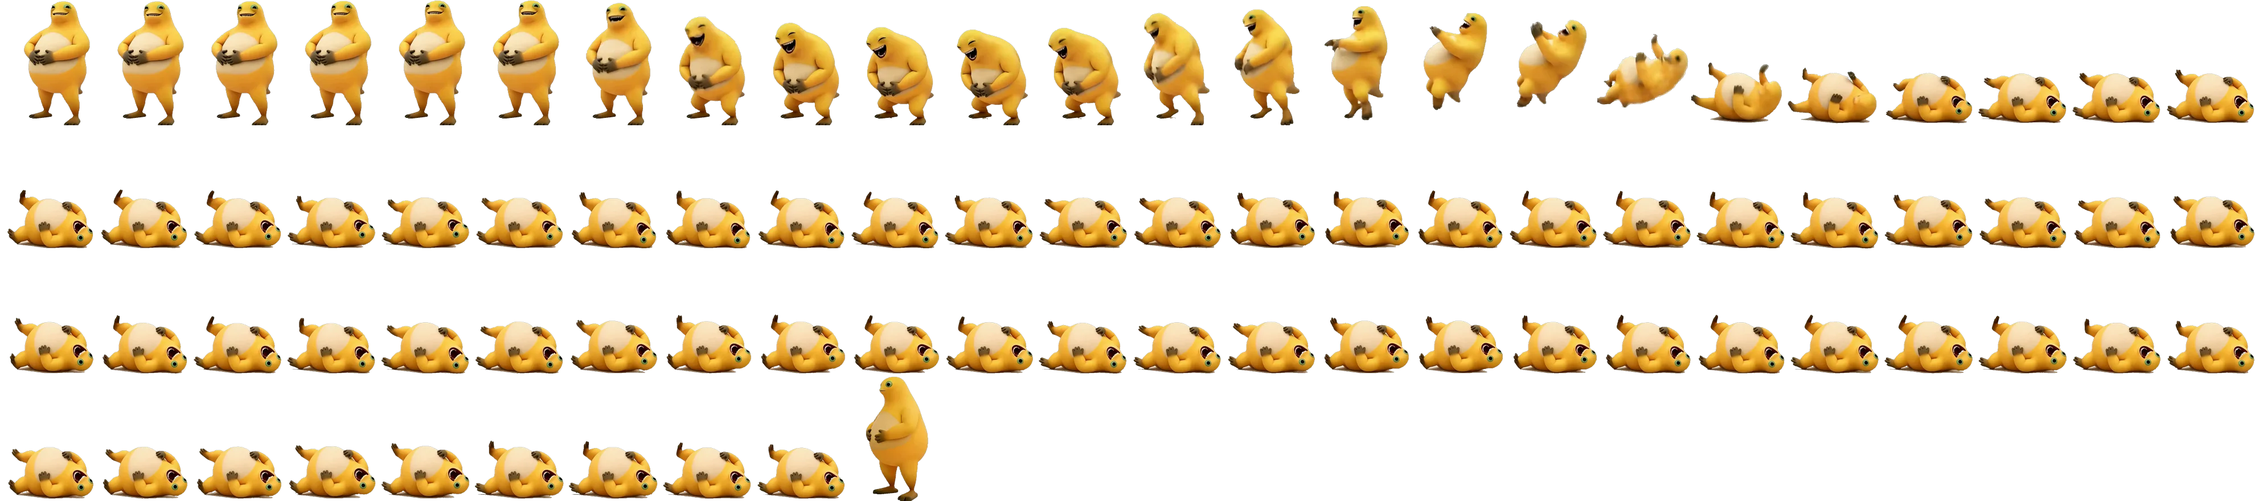
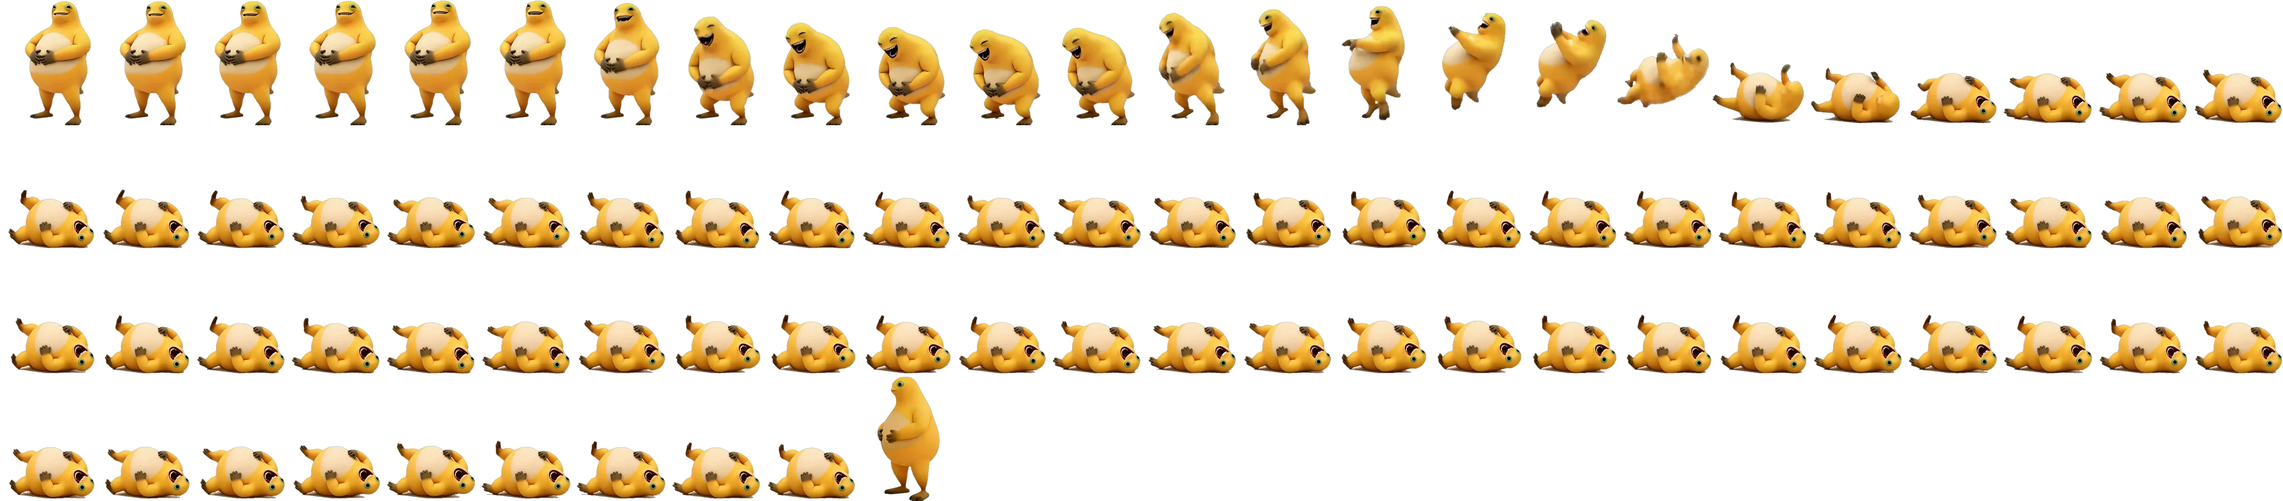
fix(deskpet): 图标改走 ldapp:// 自定义协议（开发版 http 源加载不了 file://）+ 打滚倒下帧重抠

diff --git a/src/main/localFileProtocol.ts b/src/main/localFileProtocol.ts
@@ -1,0 +1,95 @@
+import { app, net, protocol } from 'electron'
+import { existsSync, statSync } from 'node:fs'
+import { extname } from 'node:path'
+import { pathToFileURL } from 'node:url'
+
+/**
+ * 本地图片的自定义协议（`ldapp://`）。
+ *
+ * 为什么需要它（2026-11-12 用户反馈「这个图标怎么显示不出来」）：
+ * 渲染层原来把绝对路径拼成 `file:///C:/...` 直接塞进 <img src>。打包版里页面本身
+ * 就是 file:// 源，同源，能加载；但**开发预览版的页面源是 http://localhost:5173**，
+ * 从 http 源引用 file:// 子资源会被 Chromium 底层拦掉（跨源本地文件访问），
+ * 连 CSP 违规事件都不报，表现就是 <img> 静默失败 —— 横幅上的应用图标变成一块空灰底。
+ *
+ * 实测证据（.tmp/probe-icon-origin.mjs，本地 http 服务器挂 out/renderer）：
+ *   同一张 icon-cache/notify-ScreenSketch_*.png
+ *     原 CSP          → file: error / data: load:48
+ *     放行 file: 的 CSP → file: error / data: load:48
+ *   两轮 file: 都 error 且 csp 违规数组为空 ⇒ 不是 CSP 规则拦的，是源不同。
+ *
+ * 为什么不用 data: URL 一把梭：图标要经 IPC 传 base64，通知列表几十条就白占内存；
+ * 置物架图标（App.tsx:703）也走 file://，同样在开发版坏掉，自定义协议一处修两边都通。
+ *
+ * 为什么把协议注册放在模块顶层：registerSchemesAsPrivileged 必须在 app ready 之前调用，
+ * 放到 whenReady 里会失效。index.ts 在启动时 import 本模块，时机正好。
+ */
+
+/** 协议名（渲染层用 localUrl() 拼，别处不要写死字符串） */
+const SCHEME = 'ldapp'
+
+protocol.registerSchemesAsPrivileged([
+  {
+    scheme: SCHEME,
+    privileges: {
+      standard: true,
+      secure: true,
+      supportFetchAPI: true,
+      // 不开 bypassCSP：CSP 里显式允许 ldapp: 就够了，别把安全边界放宽得更离谱
+      bypassCSP: false
+    }
+  }
+])
+
+/** 只放行这些图片扩展名，别让协议变成任意文件读取通道 */
+const ALLOWED_EXT = new Set(['.png', '.jpg', '.jpeg', '.webp', '.gif', '.bmp', '.ico', '.svg'])
+
+/**
+ * 把 `ldapp://local/<encodeURIComponent 的绝对路径>` 还原成真实路径。
+ * 用单段 encodeURIComponent 而不是逐段编码：Windows 路径里的冒号、空格、
+ * 中文和 `#` 全得转义，逐段拼太容易漏。
+ */
+function decodeTarget(url: URL): string | null {
+  // standard 协议下 host 恒为 'local'，真正的路径在 pathname 里（以 / 开头）
+  const raw = url.pathname.replace(/^\//, '')
+  if (!raw) return null
+  try {
+    return decodeURIComponent(raw)
+  } catch {
+    return null
+  }
+}
+
+/** app ready 之后调用一次：把协议接到真实的文件读取 */
+export function setupLocalFileProtocol(): void {
+  protocol.handle(SCHEME, async (req) => {
+    const url = new URL(req.url)
+    const target = decodeTarget(url)
+    if (!target) return new Response('bad request', { status: 400 })
+
+    const ext = extname(target).toLowerCase()
+    if (!ALLOWED_EXT.has(ext)) return new Response('forbidden type', { status: 403 })
+    if (!existsSync(target)) return new Response('not found', { status: 404 })
+    try {
+      if (!statSync(target).isFile()) return new Response('not a file', { status: 404 })
+    } catch {
+      return new Response('not found', { status: 404 })
+    }
+
+    // net.fetch 读 file: URL 是 Electron 官方推荐做法（自动带正确的 content-type）
+    return net.fetch(pathToFileURL(target).toString())
+  })
+}
+
+/** 把绝对路径转成渲染层能用的 URL（与渲染层 localUrl() 必须保持一致） */
+export function localFileUrl(p: string): string {
+  return `${SCHEME}://local/${encodeURIComponent(p)}`
+}
+
+/** 供主进程自检/日志用：当前协议名 */
+export function localFileScheme(): string {
+  return SCHEME
+}
+
+// app 未 ready 时协议还注册不了，这里只提醒使用者别提前调用（不是错误路径）
+void app

diff --git a/src/renderer/src/App.tsx b/src/renderer/src/App.tsx
@@ -699,8 +699,8 @@ function FileIcon({ name, path }: { name: string; path: string }): React.JSX.Ele
     }
   }, [name, path])
   if (src) {
-    // Windows 路径转 file:// URL（空格等字符浏览器自动处理）
-    const url = `file:///${src.replace(/\\/g, '/')}`
+    // 走 ldapp:// 自定义协议，理由见 iconUrl() 的注释（开发版 http 源引用 file:// 会被拦）
+    const url = `ldapp://local/${encodeURIComponent(src)}`
     return <img className="shelf-icon" src={url} alt="" draggable={false} />
   }
   const color = extColor(name)
@@ -1121,9 +1121,18 @@ function ShelfPanel(): React.JSX.Element {
   )
 }
 
-/** Windows 绝对路径 → file:// URL（与置物架图标同款转换） */
+/**
+ * Windows 绝对路径 → 可加载的图片 URL。
+ *
+ * 为什么不用 file://（2026-11-12 用户反馈「这个图标怎么显示不出来」）：
+ * 打包版页面源是 file://，引用 file:// 同源、能加载；但开发预览版页面源是
+ * http://localhost:5173，从 http 源引用 file:// 会被 Chromium 底层拦掉，
+ * <img> 静默失败、连 CSP 违规都不报，横幅图标就剩一块空灰底。
+ * 改用主进程注册的 ldapp:// 自定义协议，两种源下都能加载。
+ * 拼接规则必须与 src/main/localFileProtocol.ts 的 localFileUrl() 一致。
+ */
 function iconUrl(p: string): string {
-  return `file:///${p.replace(/\\/g, '/')}`
+  return `ldapp://local/${encodeURIComponent(p)}`
 }
 
 /** 相对时间：刚刚 / n 分钟前 / n 小时前 / 昨天 / 具体日期 */

diff --git a/src/renderer/src/pet/skinPhoto.tsx b/src/renderer/src/pet/skinPhoto.tsx
@@ -121,14 +121,18 @@ export const ACTION_DURATION_MS = Math.round((ACTION_FRAMES / ACTION_FPS) * 1000
  * 15fps 抽 96 帧，去掉结尾 14 帧重复的站姿，留 82 帧。
  *
  * 为什么参数跟大笑不一样、不能共用一套常量：
- * ① 格宽不同——打滚是躺着的，画面变宽变矮，按并集包围盒算出来是 165×220 而不是 158×220；
- * ② 列数不同——82 帧排 24 列 × 4 行（3960×880），一行放不下（82×165=13530 虽没超上限，
+ * ① 格宽不同——打滚是躺着的，画面变宽变矮，按并集包围盒算出来是 167×220 而不是 158×220；
+ * ② 列数不同——82 帧排 24 列 × 4 行（4008×880），一行放不下（82×167=13694 虽没超上限，
  *    但 4000 宽以内的图解码更快，这里选了更方正的排法）；
  * ③ 播放时同时改 x 和 y，跟大笑那套两行平移是同一套逻辑，只是格子尺寸不同。
+ *
+ * 格宽 165 → 167（2026-11-12 用户反馈「倒的过程中身体有残缺」后改）：
+ * 抠图裁框左界从 30 收到 24，把倒下时左手撑地被切掉的 4px 补了回来，
+ * 合成后的并集包围盒从 464 宽变成 472 宽，按 220 高缩放算出 167。
  */
 const ROLL_COLS = 24
 const ROLL_FRAMES = 82
-const ROLL_CELL_RATIO = 165 / 220
+const ROLL_CELL_RATIO = 167 / 220
 
 /** 一支动作的素材参数：格子数、帧数、格宽比、图源 */
 interface ActionSpec {

diff --git a/src/main/index.ts b/src/main/index.ts
@@ -14,6 +14,7 @@ import { openSettings, setupSettingsWindow } from './settingsWindow'
 import { closePetWindow, setupPetWindow, syncPetWindow } from './petWindow'
 import { initClipboardWatch } from './clipboardStore'
 import { setIslandWindow } from './islandWindowRef'
+import { setupLocalFileProtocol } from './localFileProtocol'
 import type { ShelfOpenResult, ShelfRevealResult } from '../shared/types'
 
 /**
@@ -273,6 +274,10 @@ app.whenReady().then(() => {
   if (process.platform === 'win32') {
     app.setAppUserModelId('com.xcjack.lingdong-island')
   }
+  // 本地图片自定义协议（2026-11-12）：开发预览版的页面源是 http://localhost:5173，
+  // 从 http 源引用 file:// 本地图片会被 Chromium 拦掉，通知横幅/置物架图标全变空白。
+  // 注册成 ldapp:// 就能跨源加载（协议特权已在模块顶层登记）。
+  setupLocalFileProtocol()
   setupTodoStore()
   setupStatus()
   setupShelfStore()

diff --git a/src/renderer/pet.html b/src/renderer/pet.html
@@ -5,7 +5,7 @@
     <title>灵动岛桌宠</title>
     <meta
       http-equiv="Content-Security-Policy"
-      content="default-src 'self'; script-src 'self'; style-src 'self' 'unsafe-inline'; img-src 'self' data:"
+      content="default-src 'self'; script-src 'self'; style-src 'self' 'unsafe-inline'; img-src 'self' data: ldapp:"
     />
   </head>
   <body>

diff --git a/src/renderer/settings.html b/src/renderer/settings.html
@@ -5,7 +5,7 @@
     <title>灵动岛设置</title>
     <meta
       http-equiv="Content-Security-Policy"
-      content="default-src 'self'; script-src 'self'; style-src 'self' 'unsafe-inline'; img-src 'self' data:"
+      content="default-src 'self'; script-src 'self'; style-src 'self' 'unsafe-inline'; img-src 'self' data: ldapp:"
     />
   </head>
   <body>

diff --git a/src/renderer/index.html b/src/renderer/index.html
@@ -5,7 +5,7 @@
     <title>灵动岛</title>
     <meta
       http-equiv="Content-Security-Policy"
-      content="default-src 'self'; script-src 'self'; style-src 'self' 'unsafe-inline'; img-src 'self' data:"
+      content="default-src 'self'; script-src 'self'; style-src 'self' 'unsafe-inline'; img-src 'self' data: ldapp:"
     />
   </head>
   <body>

diff --git a/docs/状态.md b/docs/状态.md
@@ -6,6 +6,8 @@
 
 ## 一句话状态
 
+**2026-11-12 23:55（用户 m04725 两条反馈全部处理完：横幅图标显示不出来 + 打滚倒下过程没扣干净，分支 `deskpet-action2`，未合并、未打包）**——**①图标为什么显示不出来：不是 CSP、不是图标解析失败、也不是图标本身是灰的**（三条都实测排除了）。真因是**源不同**：开发预览版页面源是 `http://localhost:5173`，从 http 源引用 `file://` 子资源会被 Chromium 底层拦掉，`<img>` 静默失败只剩一层 `rgba(255,255,255,0.08)` 白底，在深色横幅上就是一块空灰方块；打包版页面源也是 `file://`、同源能加载，所以这个问题只在开发版出现。**证据（`.tmp/probe-icon-origin.mjs`）**：同一张 `icon-cache/notify-ScreenSketch_*.png`，在 http 源下 `{"file":"error","data":"load:48","csp":[]}`，**原 CSP / 显式放行 `file:` 的 CSP / 直接 navigate 三组结果完全一样、CSP 违规数组全空** ⇒ 不是 CSP 规则拦的。**修法**：新增 `src/main/localFileProtocol.ts` 注册 `ldapp://` 自定义协议（`registerSchemesAsPrivileged` 放模块顶层，必须早于 app ready；`ALLOWED_EXT` 白名单 + `existsSync` 校验后 `net.fetch(pathToFileURL(...))`；`bypassCSP: false`，三个 HTML 的 CSP 显式加 `img-src ... ldapp:`），`App.tsx` 的 `iconUrl()` 与置物架图标都改走它。**探针实测 `{"file":"error","ldapp":"load:48"}`**；`e2e-notify-icon` **PASS 10/0**（新增 I3b 图标真解码 `naturalWidth>0`、I3c 协议必须是 `ldapp`），**负对照把 `iconUrl` 改回 `file://` → FAIL 9/1（`✗ I3c … 协议 file`）**。**②打滚倒下过程**：`BOX` 左界 30→**24**（补回帧 18/19 左手撑地被切的 4px）、羽化 `GaussianBlur(0.8)`→**1.6**（0.8 在 0.33 倍缩放下几乎没有过渡带，边缘是一圈硬切换，正是「没扣干净」的观感来源）、`fill_transparent` 取色源从 `al>0.6` 收紧到 `al>0.99`（过渡带本身偏亮，拿它当颜色源等于把亮边抹回边缘）。重建后 sheet **4008×880、每格 167×220、348008 B**，严格白残留 **2 px**、边缘亮带 **0 px**；`ROLL_CELL_RATIO` 同步改 `167/220`。**顺带修掉一条假红**：P9i-5 里写死 `165` 格宽比，改成从源码正则读 `ROLL_CELL_RATIO` —— 测试与实现各记一个数，迟早假绿或假红。**[实测]** `npm run typecheck` EXIT=0、`npm run build` EXIT=0；`e2e-deskpet-out` **PASS（75 过 / 0 败）**；回归 `e2e-deskpet` 33/0、`e2e-m2` PASS、`e2e-head-order` 14/0、`e2e-collapse-order` 22/0、`e2e-settings-shell` 51/0、`e2e-m4` PASS、`e2e-notify` PASS（`.tmp/regress-ldapp.log`）。**未验证**：图标在开发预览版里的真实观感（断言的是 `naturalWidth` 与协议名，不是「好不好看」）；`ShellExperienceHost` 那张缓存图标只有 16×16/125 B，22px 下会不会糊。
+
 **2026-11-12 23:15（用户反馈四条全部处理完：打滚残缺、皮肤白缝、右键边框、岛不弹提示，分支 `deskpet-action2`，提交 `629067d` + 本条，未合并、未打包）**——第四条「灵动岛没有信息提示弹出」**真因找到了**：不是通知库读不到，是**推给谁错了**。`src/main/notifyStore.ts:185` 与 `src/main/clipboardStore.ts:75` 都用 `BrowserWindow.getAllWindows()[0]?.webContents.send(...)` 往渲染层推横幅，**假设 `[0]` 是岛窗口**。桌宠出岛后实测顺序是 `[{序号:0, url:".../pet.html", 标题:"灵动岛桌宠"}, {序号:1, url:".../index.html", 标题:"灵动岛"}]`——`[0]` 变成宠物窗口，横幅事件全发给一个根本不监听 `island:notify-arrived` / `island:code-arrived` 的窗口，岛上一个提示都不弹。这也解释了为什么用户是「出岛之后」才发现的。**修法**：新增 `src/main/islandWindowRef.ts`（`setIslandWindow` / `getIslandWindow` 每次判 `isDestroyed` / `sendToIsland`），`index.ts` 的 `createWindow()` 里登记、`closed` 里清空，`notifyStore` 两处（横幅推送 + 自家通知聚焦）与 `clipboardStore` 的验证码横幅都改走它。**不用 URL 猜窗口**的理由：开发版走 `loadURL(ELECTRON_RUNTIME_URL)`、打包版走 `loadFile`，URL 形态不同，字符串匹配容易在某一侧漏掉。**探针实证（`.tmp/probe-island-banner.mjs`，走剪贴板验证码这条路）**：往剪贴板写「验证码 735184」→ 等岛渲染层 `.collapsed-banner`；**修后 PASS 4/0（横幅文字 `"验证码 735184"`）、负对照改回 `getAllWindows()[0]` 后 FAIL 2/1（`等超时：岛横幅出现`）**。**探针踩坑**：同一个验证码第二次跑会被 `REPEAT_SUPPRESS_MS = 30_000` 去重，第二次跑必须换新码，否则误判成「还没修好」。**e2e 新增 P9k 三条**（出岛时确实有宠物窗口 / 引用是显式登记 / 两条横幅都走 `sendToIsland` 且源码不再有旧写法），`e2e-deskpet-out` **PASS（75 过 / 0 败）**。**未验证**：真实系统通知（非剪贴板验证码）到岛时横幅会不会弹——两条路走同一个 `sendToIsland`，机制相同，但没有单独验。
 
 **2026-11-12 23:05（用户实测反馈的四条里前三条已修：打滚「身体残缺」、三张皮肤白缝、右键多出的边框，分支 `deskpet-action2`，未合并、未打包）**——用户（m03693）原话：「我一右键就会多出来一个边框；还有就是打滚扣的不好，身体有残缺；我现在又发现了一个之前没发现的，截图二，就是原版的图片上手部和手和肚皮的夹缝都有一点白色背景没扣好；还有就是我刚刚截图，灵动岛没有信息提示弹出」。**①打滚「身体残缺」不是帧被裁、也不是连通块被切成两块**（逐项排除过：82 帧贴边只有 3~27px 边缘细条、`alpha>0.5` 连通块无一帧有第二个 >50px 块、内部透明洞 0 像素、严判前景只被抠掉 0.05%、封闭背景块 ≥40px 的 0 个）。**真因**：阴影判据 `passable = bg | (ch<45 & mn>160 & mn<232)` 从四边泛洪，会**顺着肚皮上缘「亮且低彩度」的高光一路咬进身体**——帧 046 被吃掉 4663 个非背景像素，第二大的块 **600px 就在 `x220–342 y374–403`**，成品上正是「被啃掉一口」。**修法**：加 `SHADOW_BAND = 70`，只允许「贴着角色最低点往上 70 行」以内当阴影吃；帧 046「非背景却透明」**5748 → 4522**、帧 030 **6121 → 4827**。**②白 halo**：`cut()` 只对 `0.02<alpha<0.995` 窄带去污染、**alpha 更小的像素 RGB 仍是原图纯白**，而 `resize(LANCZOS)` 是逐通道插值（非预乘），白就被混进边缘。修法：新增 `fill_transparent(rgb, alpha, r=7, iters=3)` 把透明区 RGB 迭代填成邻域身体色。**预乘 alpha 缩放这条路试过、不能用**（白边像素 0→161）。**③三张皮肤的白缝**：`bean-photo.png` 里「不透明且 min>235 & chroma<20」只有 **7px**（`x36–272 y338–343`，正是左右手与肚皮之间那两条缝），侧图背图都是 0；把点放大到 12× 对照原图，确认**原图腋下本身就是一条白缝**（手臂与肚子之间背景透出），不是抠坏的。修法 `carve_photo_holes.py` 判据**只看绝对颜色不跟背景比**（`min>230 & chroma<25 & 面积<300`，奶白肚皮 7000+ 靠面积兜底），第一版拿「与透明区背景中位色差<6」只挖到 2 像素就收工——因为成品 PNG 的透明区虽然 alpha=0、**RGB 还留着身体黄**。改后：正面挖 10px、背面 3px、侧面 0。**④右键那圈边框 = Chromium 焦点环**：用户截图里那条线量出来 `x30..267 / y36..348`，正好 **238×313 物理像素** = 窗口 190×250 DIP × DPR 1.25；线色 **(229,151,0)**，本机 `DWM\AccentColor = 0xFFD47800` → RGB(212,120,0)。修法是 `petwin.css` 加 `.petwin:focus, .petwin:focus-visible { outline: none }`。**[实测] 三轮探针**：原始状态无边框、真鼠标点一下仍无边框、`deleteRule` 删掉那条 CSS 再按 Tab → `focusVisible=true outlineStyle=auto outlineColor=rgb(229,151,0)`、边框真的出现（`top54 bot113 left76`），**颜色与用户截图逐位相同**。**e2e 新增 P9j 三条**：源码断言规则存在 / Tab 后 computed `outlineStyle==='none'` / **负对照**（删规则后焦点环必须回来且颜色匹配 `229|212`）——只断言「现在没有边框」是假绿，删掉整段 CSS 也能过。**[实测]** `npm run typecheck` EXIT=0、`npm run build` EXIT=0；`e2e-deskpet-out` **PASS（72 过 / 0 败）**；回归 `e2e-deskpet` 33/0、`e2e-head-order` 14/0、`e2e-collapse-order` 22/0、`e2e-settings-shell` 51/0。**回归踩的坑**：`e2e-m2` 首次 FAIL，根因不是代码——`.tmp/e2e-userdata/.../prefs.json` 里 `petMode` 停在 `window`（上一批 e2e 留下的），岛仔按设计不渲染；改回 `island` 后立刻 PASS。**共享隔离目录的 e2e 之间会互相污染 `petMode`**。**未做**：用户第四条「灵动岛没有信息提示弹出」本轮只读了代码（`notifyStore.ts:185`、`clipboardStore.ts:75`、`notifyStore.ts:303` 有 `ScreenSketch: 'ms-screenclip:'`），**没有复现也没有修复**。SPEC 见 `docs/Spec/SPEC-deskpet-action.md` 第 7.10 节。
@@ -88,14 +90,12 @@
 
 ## 下次开工先做什么
 
-> **2026-11-12 21:30 现状**：桌宠阶段 0、阶段 1 第一步（出岛 + 四视图转身 + 底部旋转把手 + 右键出岛）、阶段 2 的前两支动作（大笑）**已在 `main`（`9f479fb`）并装进 `D:\软件\灵动岛\`（2026-11-12 20:51）**；**第二支动作「打滚」在分支 `deskpet-action2` 上，待用户看过再合并**。
-> **开发预览版需要重启**（跑 e2e 时被关掉了），命令见下面「关键环境」；跑 e2e 前先 `Get-Process electron | Stop-Process -Force`。
+> **2026-11-12 23:55 现状**：桌宠阶段 0、阶段 1 第一步（出岛 + 四视图转身 + 底部旋转把手 + 右键出岛）、阶段 2 的**两支动作（大笑 + 打滚）在分支 `deskpet-action2` 上，待用户看过再合并**；`main`（`9f479fb`）上只有大笑，装进 `D:\软件\灵动岛\` 的是 2026-11-12 20:51 的包（**没有打滚**）。
+> **开发预览版需要重启**，命令见下面「关键环境」；跑 e2e 前先 `Get-Process electron | Stop-Process -Force`。
 >
-> - 合并链：`cebb8e6` → `50314a7`（`fix-flaky-e2e`）→ `37fb03c`（`deskpet-skin`）→ `a443108`（`deskpet-photo`）→ `c5809e2`（`fix-e2e-close-race`）→ `c5e88b5`（`deskpet-out`）→ `9f479fb`（`deskpet-action`，当前 `main`）→ 待合并 `deskpet-action2`（打滚）。
-> - `main` 上现在有什么：岛仔可换皮肤层（`src/renderer/src/pet/`）+ 三套形象（紫胶囊 / 黄豆小怪兽 / 我的原图）+ 设置窗口「桌宠」分区 + `prefs.json` 的 `petSkin` / `petMode` / `petWindowPos` 白名单校验 + **第三个渲染入口 `pet.html` 与 `src/main/petWindow.ts`**（透明无边框独立窗口、拖动记位置、右键菜单）+ 原图皮肤四视图转身（**按住正下方的旋转图标拖动驱动**，按住身体仍是挪位置）+ 岛右键菜单一步出岛/收回 + **动作层**（`PetAction` 类型、`skinPhoto` 的 sprite sheet 播放、`PetWindowApp` 的点击触发与 7.2 秒定时复位）+ 素材 `bean-laugh.webp`（600442 B、8532×440、每格 158×220）。
-> - **`deskpet-action2` 分支上多什么**（尚未合并）：`bean-roll.webp`（打滚素材，351330 B、3960×880、24 列 × 4 行、每格 165×220、82 帧）、`PetAction` 加 `'roll'`、`skinPhoto.tsx` 的 `ACTION_SPECS` 表与 `actionDurationMs()`（按各自帧数定时）、`preload` 的 `onPetAction()`、`petWindow.ts` 右键菜单两项（「再来一次大笑」/「打个滚」）、e2e P9i-0~P9i-7。
-> - **[实测]** `main` 上的数字：typecheck EXIT=0、build EXIT=0、`e2e-deskpet-out` **61/0**、`e2e-deskpet` 33/0、`e2e-m2` PASS、`e2e-head-order` 14/0、`e2e-collapse-order` 22/0、`e2e-settings-shell` 51/0。**注意** `e2e-deskpet` 与 `e2e-collapse-order` 各有一次「首次 1 败、重跑全过」的偶发，属已知不稳定。
-> - **[实测]** `deskpet-action2` 分支上的数字：typecheck EXIT=0、build EXIT=0、`e2e-deskpet-out` **69/0**、其余五套全绿（`.tmp/regress-roll.log`）。
+> - `deskpet-action2` 上的最新提交：`dd42709`（打滚）→ `629067d`（打滚残缺 + 皮肤白缝 + 右键焦点环）→ `fb65c81`（岛横幅改走显式登记的岛窗口引用）→ **本条**（横幅图标 `ldapp://` 协议 + 打滚倒下帧重抠）。
+> - **`deskpet-action2` 分支上比 `main` 多什么**：`bean-roll.webp`（打滚素材，**348008 B、4008×880、24 列 × 4 行、每格 167×220、82 帧**）、`PetAction` 加 `'roll'`、`skinPhoto.tsx` 的 `ACTION_SPECS` 表与 `actionDurationMs()`（按各自帧数定时）、`preload` 的 `onPetAction()`、`petWindow.ts` 右键菜单两项（「再来一次大笑」/「打个滚」）、`islandWindowRef.ts`（横幅推送不再假设 `getAllWindows()[0]` 是岛窗口）、**`localFileProtocol.ts`（`ldapp://` 自定义协议，修开发版图标加载）**、三个 HTML 的 CSP 加 `img-src ... ldapp:`、`App.tsx` 两处图标 URL 改造、e2e P9i-0~P9i-7 + P9j-1~P9j-3 + P9k-1~P9k-3 + `e2e-notify-icon` 的 I3b/I3c。
+> - **[实测]** `deskpet-action2` 分支上的数字：typecheck EXIT=0、build EXIT=0、`e2e-deskpet-out` **75/0**、`e2e-notify-icon` **10/0**、`e2e-deskpet` 33/0、`e2e-m2` PASS、`e2e-head-order` 14/0、`e2e-collapse-order` 22/0、`e2e-settings-shell` 51/0、`e2e-m4` PASS、`e2e-notify` PASS（`.tmp/regress-ldapp.log`）。
 >
 > **用户实测反馈的问题已修完**：
 > 1. 「按住它就一直变大、还往下移动」（`c6750b4`）——根因是拖动定时器每 16ms 调 `w.setPosition(x, y)`，在 125% 缩放下每次 DIP↔物理像素换算的余数被并进窗口尺寸，200 次从 191×191 长到 391×391。改用 `setBounds` 并显式带宽高。e2e 新增 P9c 回归，负对照证明退回旧写法会红。
@@ -106,6 +106,11 @@
 > 6. 「每次出岛都要点设置」（`2828ead`）——右键菜单加「让桌宠出岛…」/「让桌宠回到岛里」，按当前模式二选一显示。
 > 7. 「图标在往下移，有点遮住脚了」→「我希望在奶娃的下面」（`e448608` → `e6f9f72`）——第一版 `left:50%/bottom:4px` 居中贴底，22px 的圆夹在两只脚中间压住脚趾；第二版挪到右下角避开但方向不对；最终版把窗口加高到 **190×250**（多出来的是透明留白，宠物尺寸不变），把手回到正下方居中。顺带修掉 P9f-2 的假绿（原只测底部位置，旧版照样全绿），改成测「压入量 ≤ 0 + 水平中心偏差 ≤ 4」，负对照证明会红。
 > 8. 「捂头的动作白色背景没扣干净」「色差统一取中间值」（`fe0a3b4`）——白边根因是「封闭背景块只挖质心在画面下半部的」，捂头时两臂间那块白三角在上半部被位置条件保住；改成按「块内严格白占比 < 0.5」判（255 个封闭块里白空洞 0.78~0.87、牙齿/肚皮全 ≤0.45，中间是空的）。剩 1289 像素其实是手臂高光条，改成换色不换 alpha。配色用全局位移 `(+6,+4,−10)` 取中点。
+> 9. 「一右键就会多出来一个边框」（`629067d`）——不是自绘边框，是 Chromium 的 `:focus-visible` 焦点环：量出来 `x30..267 / y36..348` 正好 238×313 物理像素 = 窗口 190×250 DIP × DPR 1.25，颜色 `(229,151,0)` 与本机 `DWM\AccentColor` 一致。`petwin.css` 加 `outline: none`；e2e P9j 带负对照（删掉规则后焦点环必须回来），只断言「现在没边框」是假绿。
+> 10. 「灵动岛没有信息提示弹出」（`fb65c81`）——不是通知库读不到，是**推给谁错了**：横幅推送写死 `BrowserWindow.getAllWindows()[0]`，桌宠出岛后 `[0]` 是宠物窗口，横幅全发给一个不监听该事件的窗口。新增 `islandWindowRef.ts` 显式登记 + `sendToIsland()`；探针负对照改回旧写法立刻 FAIL。
+> 11. 「打滚扣的不好，身体有残缺」（`629067d` + 本条）——真因是阴影判据从四边泛洪时**顺着肚皮上缘高光一路咬进身体**（帧 046 吃掉 4663 个非背景像素）；加 `SHADOW_BAND = 70` 只允许贴着最低点 70 行内当阴影吃。倒下那两帧另有左手撑地被裁：`BOX` 左界 30→24，羽化 0.8→1.6，`fill_transparent` 色源收紧到 `al>0.99`。
+> 12. 「原版的图片上手部和手和肚皮的夹缝有白色背景」（`629067d`）——放大 12× 对照原图确认**原图腋下本身就是一条白缝**（手臂与肚子之间背景透出），不是抠坏的；`carve_photo_holes.py` 按绝对颜色挖（`min>230 & chroma<25 & 面积<300`），正面挖 10px、背面 3px、侧面 0。
+> 13. 「这个图标怎么显示不出来」（本条）——不是 CSP、不是解析失败、也不是图标灰。真因是开发版页面源是 http，从 http 源引用 `file://` 子资源被 Chromium 底层拦掉（CSP 违规数组全空）。新增 `ldapp://` 自定义协议，`e2e-notify-icon` 新增 I3b（`naturalWidth>0`）/I3c（协议必须是 ldapp），负对照改回 `file://` 立刻红。
 >
 > **3D 问题已落地为第二条路**：用户先选第一条（真 3D），看过排期后改选第二条（四视图切换伪 3D）。已实现四视图转身，**以后想上真 3D 只需再增加一套皮肤，不推翻这一轮的任何东西**（`PetSkin` 接口不变；Blender 4.5.10 已装，`.tmp/webgl-probe.html` 实测透明窗口里 WebGL2 60 帧、背景真透明，平台无障碍）。
 >
@@ -114,7 +119,7 @@
 > - 桌宠玩法（吃文件 / 专注守卫 / 音乐小生物 / 电量小怪物）不做，用户原话「先不做，先保留」。
 > - 「宠物出岛后不留岛上」**已是现状**，不用改；长大版也照这规矩做。
 >
-> **下一步**：①先让用户看一眼打滚（`deskpet-action2` 分支，需重启预览版），确认后合并。②**「挥手」这支动作缺素材**——那段视频里没有挥手，要做只能另找素材或用 AI 生成一段，等用户定。③用**安装版**试一下（`D:\软件\灵动岛\灵动岛.exe`）：点一下会不会笑、拖到别处重启后是否还记得位置——这两件 e2e 覆盖不到。④体型差异（视频角色肚子更大、头更小）只能靠重做素材对齐，用户说处理再动。**桌宠玩法与模式 3 自由走动都还没开工。**
+> **下一步**：①先让用户看一眼打滚 + 横幅图标（`deskpet-action2` 分支，需重启预览版），确认后合并。②**「挥手」这支动作缺素材**——那段视频里没有挥手，要做只能另找素材或用 AI 生成一段，等用户定。③用**安装版**试一下（`D:\软件\灵动岛\灵动岛.exe`）：点一下会不会笑、拖到别处重启后是否还记得位置——这两件 e2e 覆盖不到。④体型差异（视频角色肚子更大、头更小）只能靠重做素材对齐，用户说处理再动。**桌宠玩法与模式 3 自由走动都还没开工。**
 
 1. 读 `AGENTS.md`（知道该读什么）→ `docs/facts/` 里与本次任务相关的文档 → 本文件。
 2. **P1 已全部完成**（见下节表格）；新功能从 `docs/facts/用户角色与用户故事.md` 第 3.8 节的处理结论与 `docs/facts/里程碑.md`「尚未排期」里挑，别把「已否决不做」当成待办。

diff --git a/docs/Spec/SPEC-deskpet-action.md b/docs/Spec/SPEC-deskpet-action.md
@@ -431,3 +431,75 @@ P9k-2 引用是显式登记而非 URL 匹配、P9k-3 两条横幅都走 `sendToI
 **未验证**：①打滚修完后真人在深色桌面上看还有没有观感问题
 ②三张皮肤各挖掉 10/3 像素后边缘有没有变得不自然（量太小，肉眼看不出）
 ③「灵动岛没有信息提示弹出」的真实触发场景（见上条）。
+
+### 7.11 横幅图标显示不出来（第八轮，用户实测反馈后修）
+
+用户 m04725 原话：「还有就是这个图标怎么显示不出来」。附图 m04724（123×46）是岛横幅截图：
+深色圆角条，左边一个**灰方块**是应用图标位，右边文字「屏幕截图已复制到…」「已自动保存到屏幕截…」。
+
+**先排除三个不是原因的方向**：
+
+| 猜测 | 实测结论 |
+|---|---|
+| 图标解析失败、`icon` 是 null | **不是**。紫色 fallback 文字没出现在图标位（紫像素在 `y10~20 x34~120`，是标题色），说明走的是 `<img>` 分支 |
+| CSP 挡了 `file:` | **不是**。`src/renderer/index.html:8` 的 CSP 是 `img-src 'self' data:`，确实没有 `file:`；但在构建产物页面（源本身就是 `file://`）里建 `<img src="file:///...">` → `{"outcome":"load","naturalWidth":48,"csp":[]}`，**CSP 违规数组为空** |
+| 图标本身是灰的 | **不是**。`%APPDATA%\lingdong-island\icon-cache\notify-ScreenSketch_8wekyb3d8bbwe.png`（48×48）放大到 192×192 是**彩色的**：红色虚线框 + 灰色剪刀 + 蓝色圆点 |
+
+**真因：源不同，`file://` 子资源被 Chromium 底层拦掉。**
+
+开发预览版的页面源是 `http://localhost:5173`（`ELECTRON_RENDERER_URL`），打包版是 `file://`。
+`.tmp/probe-icon-origin.mjs`（node 起静态服务器挂 `out/renderer`，electron 加载 `http://127.0.0.1:5199`）
+三组对照，结果完全一致：
+
+```
+{"file":"error","data":"load:48","csp":[]}   ← 原 CSP
+{"file":"error","data":"load:48","csp":[]}   ← CSP 显式放行 file:
+{"file":"error","data":"load:48","csp":[]}   ← 直接 navigate 到副本
+```
+
+**`file:` 一律 error、`data:` 能 load:48、CSP 违规数组全空** —— 不是 CSP 规则拦的，是「http 源引用
+file:// 子资源」这条更底层的限制。`<img>` 静默失败，只剩 `.banner-icon` 那层
+`background: rgba(255,255,255,0.08)`，在深色横幅上就是一块空灰底。
+
+**为什么用户会在打包版里也看到**：置物架图标（`src/renderer/src/App.tsx:703`）走同样的 `file:///`
+写法，而用户当时跑的正是开发预览版；打包版同源能加载，所以他之前没发现。
+
+**修法：主进程注册自定义协议 `ldapp://`。**
+
+新增 `src/main/localFileProtocol.ts`：
+
+- `protocol.registerSchemesAsPrivileged([{ scheme: 'ldapp', privileges: { standard: true, secure: true, supportFetchAPI: true, bypassCSP: false } }])`
+  —— **必须在模块顶层调用**，早于 `app.whenReady()`，放进去就失效了。
+- `protocol.handle('ldapp', ...)`：从 `url.pathname` 取单段 `encodeURIComponent` 的绝对路径 → `decodeURIComponent`，
+  过 `ALLOWED_EXT` 白名单（`.png .jpg .jpeg .webp .gif .bmp .ico .svg`）+ `existsSync` + `isFile()`，
+  最后 `net.fetch(pathToFileURL(target).toString())` 返回（Electron 官方做法，自动带对 content-type）。
+- `bypassCSP: false` + CSP 里显式写 `img-src 'self' data: ldapp:` —— 不靠放宽安全边界解决问题。
+
+三处接线：`src/main/index.ts` 的 `whenReady` 里 `setAppUserModelId` 之后插 `setupLocalFileProtocol()`；
+`App.tsx` 的 `iconUrl()` 与置物架图标都改成 `ldapp://local/${encodeURIComponent(path)}`。
+**拼接规则主进程与渲染层必须一致**，两边注释互相点名。
+
+**验证（[实测]）**：
+
+| 项 | 结果 |
+|---|---|
+| `.tmp/probe-ldapp.mjs`（http 源 + 真实主进程） | `{"file":"error","ldapp":"load:48","origin":"http://127.0.0.1:5201"}` |
+| `npm run typecheck` / `npm run build` | EXIT=0 / EXIT=0（`bean-roll-C0Y-dx-n.webp 348.00 kB`） |
+| `e2e-notify-icon` 修后 | **PASS（10 过 / 0 败）**，新增 I3b/I3c |
+| `e2e-notify-icon` 负对照（`iconUrl` 改回 `file://`） | **FAIL（9 过 / 1 败）**：`✗ I3c 图标走 ldapp: 协议（不是 file:） — 协议 file` |
+
+**新增两条 e2e 断言（`scripts/e2e-notify-icon.mjs`）**：
+
+- `I3b 图标真的解码出来（naturalWidth > 0）` —— 拦截时 `naturalWidth` 恒为 0，这是最强的判别依据。
+- `I3c 图标走 ldapp: 协议（不是 file:）` —— 防止有人改回去。
+
+**只断言「现在没有灰方块」是假绿**：截图像素比对会被横幅半透明背景干扰，`naturalWidth` 与协议名
+是能真变红的判据。
+
+**另一处顺带修掉的假红（`scripts/e2e-deskpet-out.mjs` P9i-5）**：断言里写死了 `165` 这个格宽比，
+而打滚素材重抠后已改成 `167`（裁框左界 30→24 补回左手）。改成**从源码正则读 `ROLL_CELL_RATIO`** 再算期望值——
+「测试与实现各记一个数」的写法迟早变成假绿（改实现忘改测试）或假红（改测试忘改实现）。
+
+**未验证**：①开发预览版里横幅图标的真实观感（e2e 断言的是 naturalWidth 与协议名，不是「好不好看」）
+②`ShellExperienceHost` 那张缓存图标只有 16×16/125 B，22px 下会不会糊。
+
